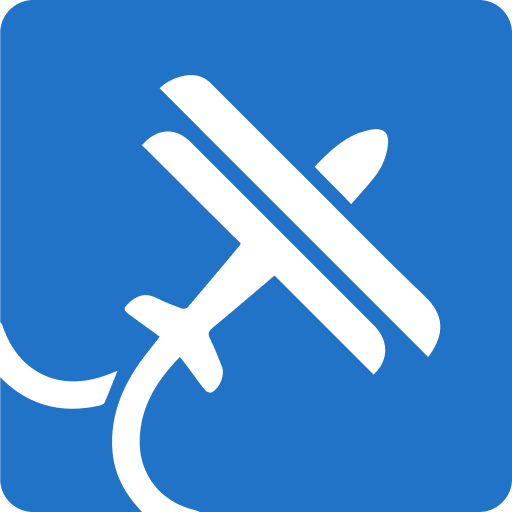
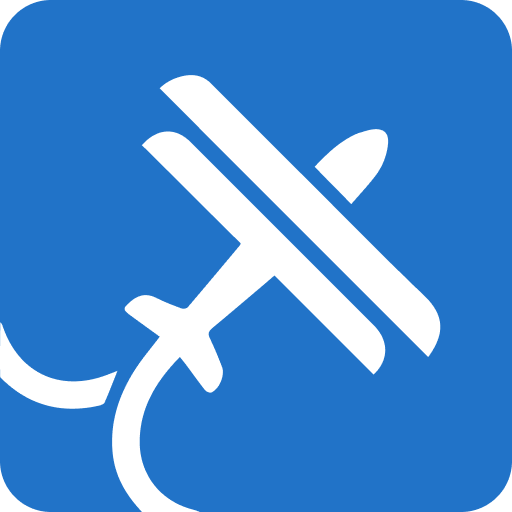
feat(brand): свести 6 копий логотипа к одному мастеру (TRIP-479)
В репозитории жили 6 независимых источников марки и 3 разных синих:
- public/triplanio-logo.svg  341x341, белый rect + синий path «с дыркой», #2267E2
- public/triplanio-logo.png  80x80, углы ~3%, #2267E2
- public/icon-192/512.png    #2173C8
- #tl-logo в LandingSprite   342x341, обратная конструкция, #2173C8
- запечён в og-cover/og-join белой плашкой

Всего 23 точки рендера. Побочный дефект «выбитой» конструкции: самолёт
берёт цвет фона под собой, поэтому на тёмном он чернел.

Теперь один мастер public/triplanio-logo.svg — непрозрачная плитка
#2173C8 + белые path сверху, самодостаточная на любом фоне. Из него же
собраны растры и favicon.ico (3 кадра, альфа сохранена).

- public/: мастер, icon-192/512, новые apple-touch-icon.png и favicon.ico
- public/triplanio-logo.png удалён — потребителей не осталось
- index.html: favicon.ico фолбэком после SVG + apple-touch-icon
  (непрозрачный и нескруглённый намеренно: iOS скругляет сам, альфа даёт
  чёрные углы); Organization.logo в JSON-LD снят с удалённого PNG на
  icon-512.png — Google не принимает SVG в этом поле
- vercel.json: правило Cache-Control сдвинуто на актуальный список файлов
- LandingSprite: символ #tl-logo пересобран из мастера, viewBox 342x341
  → 192x192; у пяти потребителей, задающих viewBox, обновлён (SiteChrome
  x2, LandingPage x3). AuthShell и строка landing.pn.divider viewBox не
  задают и берут его из символа — локали не тронуты, Tolgee не задет
[…]

diff --git a/supabase/functions/render-share-card/assets_b64.ts b/supabase/functions/render-share-card/assets_b64.ts
@@ -15,4 +15,4 @@ export const FONT_B64: string[] = [
 ];
 
 // Логотип Triplanio (public/triplanio-logo.svg) для футера карточки — base64 SVG.
[2 lines of base64/hex data omitted]

diff --git a/src/components/site/LandingSprite.jsx b/src/components/site/LandingSprite.jsx
@@ -51,12 +51,20 @@ export default function LandingSprite() {
         <symbol id="i-ferry" viewBox="0 0 24 24" fill="none" stroke="currentColor" strokeWidth="2" strokeLinecap="round" strokeLinejoin="round"><path d="M3 18.5c1.6 0 1.6 1.2 3.2 1.2s1.6-1.2 3.2-1.2 1.6 1.2 3.2 1.2 1.6-1.2 3.2-1.2 1.6 1.2 3.2 1.2" /><path d="M5 15l1.6-5.2h10.8L19 15" /><path d="M12 9.8V5M9 5h6" /></symbol>
         <symbol id="i-walk" viewBox="0 0 24 24" fill="none" stroke="currentColor" strokeWidth="2" strokeLinecap="round" strokeLinejoin="round"><circle cx="13" cy="4.5" r="1.8" /><path d="M11 21l1.6-5.4L10 13l1-5 3.5 2 2.5 1M10 8l-3 2-1 3M12.6 15.6 16 21" /></symbol>
         <symbol id="i-lock" viewBox="0 0 24 24"><rect x="5" y="10.5" width="14" height="10" rx="2.5" fill="none" stroke="currentColor" strokeWidth="2" /><path fill="none" stroke="currentColor" strokeWidth="2" strokeLinecap="round" d="M8 10.5V8a4 4 0 0 1 8 0v2.5" /></symbol>
-        <symbol id="tl-logo" viewBox="0 0 342 341">
-          <rect x="0.14" width="341" height="341" rx="33" fill="#2173C8" />{/* design-token-exempt: бренд-лого Triplanio (двухтоновая марка, как в SiteChrome) */}
-          <path d="M94.6416 341C83.8772 329.659 76.5128 317.121 75.0413 301.509C73.1449 281.388 79.1121 263.296 89.6892 246.622C94.5557 238.951 100.565 232.004 106.427 224.236C100.18 219.706 93.7372 215.059 87.3228 210.374C81.5862 206.183 81.717 205.395 86.9609 200.869C92.3663 196.203 97.8246 195.183 104.364 198.499C109.684 201.197 115.313 203.318 120.912 205.405C122.074 205.838 124.313 205.516 125.036 204.67C136.721 191.015 148.244 177.22 159.785 163.442C160.083 163.086 160.178 162.56 160.369 162.109C138.373 140.245 116.431 118.437 94.5376 96.6751C104.546 85.2901 116.91 84.6208 126.739 94.4252C167.55 135.132 208.337 175.864 249.061 216.658C259.315 226.93 259.147 240.014 248.868 249.501C227.016 227.621 205.157 205.734 182.905 183.454C179.866 186.065 177.283 188.314 174.669 190.525C163.607 199.879 152.579 209.274 141.434 218.529C139.035 220.521 138.347 222.2 139.803 225.247C142.808 231.535 145.495 237.993 147.971 244.51C150.021 249.907 146.003 259.324 140.751 261.408C139.688 261.83 137.352 260.766 136.489 259.682C132.242 254.345 128.31 248.757 124.232 243.285C122.867 241.454 121.397 239.7 119.839 237.74C104.16 253.787 93.0867 271.57 93.0853 294.35C93.084 316.373 107.094 333.849 128.491 339.366C129.94 339.739 131.539 340.273 133.142 341H94.6416Z" fill="#fff" />
-          <path d="M0.142077 214.673C0.627545 214.991 1.29188 215.72 1.57264 216.574C11.9076 248.025 39.1435 261.295 70.3393 250.034C72.7814 249.152 75.1838 248.16 78.2836 246.956C75.2743 254.472 72.6732 261.356 69.6796 268.065C69.1743 269.198 67.0518 269.92 65.5489 270.249C40.5611 275.722 18.4789 269.885 0.141602 251.223C-0.177652 239.098 0.142077 227.162 0.142077 214.673Z" fill="#fff" />
-          <path d="M206.222 121.124C231.732 146.52 256.606 172.071 282.401 196.654C296.793 210.37 296.231 222.785 285.311 237.797C225.767 178.254 166.141 118.63 106.337 58.8275C110.727 54.529 116.932 51.2758 124.167 50.2368C130.621 49.31 136.166 51.0851 140.943 55.8946C162.537 77.6363 184.282 99.2281 206.222 121.124Z" fill="#fff" />
-          <path d="M238.721 88.6644C242.438 87.6459 245.775 86.3565 249.194 86.083C255.962 85.5416 259.176 88.965 258.541 95.7017C257.773 103.846 254.697 111.233 249.737 117.63C244.971 123.776 239.635 129.48 234.054 135.953C229.699 131.516 225.784 127.529 221.869 123.541C217.918 119.516 213.967 115.49 209.617 111.058C218.073 102.23 226.699 93.6271 238.721 88.6644Z" fill="#fff" />
+        {/* Бренд-марка (TRIP-479) — единственная копия геометрии логотипа в коде.
+            Мастер = public/triplanio-logo.svg (он же favicon и источник растров);
+            здесь его rect+path перенесены как есть, причёсано только обрамление
+            тегов под стиль остального спрайта. Значения (координаты, rx, `white`
+            вместо `#fff`) НЕ править руками — они едут вслед за мастером.
+            viewBox символа продублирован у тех потребителей, кто его указывает
+            (SiteChrome ×2, LandingPage ×3) — менять вместе; AuthShell и строка
+            landing.pn.divider viewBox не задают и берут его отсюда. */}
+        <symbol id="tl-logo" viewBox="0 0 192 192">
+          <rect x="0.0800781" width="191.92" height="192" rx="26" fill="#2173C8" />{/* design-token-exempt: бренд-лого Triplanio, синий плитки задан мастером public/triplanio-logo.svg */}
+          <path d="M53.2658 191.999C47.2075 185.614 43.0626 178.555 42.2345 169.764C41.1672 158.435 44.5256 148.248 50.4785 138.86C53.2175 134.541 56.5994 130.629 59.8989 126.255C56.3831 123.705 52.7568 121.088 49.1467 118.45C45.918 116.091 45.9916 115.647 48.943 113.099C51.9852 110.472 55.0573 109.897 58.7377 111.764C61.7318 113.283 64.8998 114.477 68.0512 115.653C68.705 115.897 69.9652 115.715 70.3725 115.239C76.9489 107.55 83.4339 99.7834 89.9295 92.0256C90.0973 91.8252 90.1505 91.5286 90.2581 91.2747C77.8783 78.9646 65.5295 66.6853 53.2073 54.4324C58.84 48.022 65.7986 47.6452 71.3307 53.1655C94.2998 76.0857 117.255 99.0198 140.176 121.989C145.947 127.772 145.852 135.139 140.067 140.481C127.768 128.161 115.466 115.838 102.942 103.293C101.232 104.763 99.7778 106.029 98.3062 107.274C92.0806 112.541 85.8738 117.831 79.6013 123.042C78.2509 124.164 77.8641 125.109 78.6835 126.825C80.3743 130.365 81.8867 134.001 83.2803 137.671C84.4344 140.71 82.1727 146.012 79.2168 147.185C78.6184 147.423 77.3038 146.824 76.8183 146.213C74.4281 143.208 72.2151 140.062 69.9197 136.981C69.1515 135.95 68.3244 134.963 67.4475 133.859C58.6227 142.894 52.3907 152.907 52.3899 165.733C52.3892 178.133 60.2744 187.973 72.317 191.079C73.132 191.29 74.0324 191.59 74.9342 191.999C67.899 191.999 60.6703 191.999 53.2658 191.999Z" fill="white" />
+          <path d="M0.0799632 120.871C0.353192 121.05 0.727088 121.461 0.885108 121.942C6.70177 139.65 22.0306 147.122 39.5881 140.781C40.9625 140.285 42.3146 139.726 44.0592 139.048C42.3655 143.28 40.9016 147.156 39.2168 150.934C38.9324 151.571 37.7378 151.978 36.8919 152.163C22.8284 155.245 10.4002 151.958 0.0796956 141.451C-0.0999856 134.624 0.0799632 127.903 0.0799632 120.871Z" fill="white" />
+          <path d="M116.065 68.1987C130.422 82.4981 144.421 96.8842 158.939 110.726C167.039 118.449 166.723 125.439 160.577 133.892C127.065 100.366 93.5061 66.7943 59.8477 33.1226C62.3184 30.7024 65.8109 28.8707 69.8827 28.2857C73.515 27.7638 76.6361 28.7633 79.3245 31.4713C91.4779 43.713 103.716 55.8702 116.065 68.1987Z" fill="white" />
+          <path d="M134.356 49.9223C136.448 49.3488 138.326 48.6228 140.25 48.4688C144.059 48.164 145.868 50.0916 145.511 53.8847C145.079 58.4704 143.347 62.6296 140.556 66.2313C137.874 69.6918 134.87 72.9032 131.729 76.548C129.278 74.0501 127.074 71.8048 124.871 69.5594C122.647 67.293 120.424 65.0265 117.976 62.5311C122.735 57.5603 127.59 52.7165 134.356 49.9223Z" fill="white" />
         </symbol>
         {/* Demo-trip section icons (TRIP-462) — extend the zone sprite so the
             demo page reuses the shared header's sprite, no per-page plumbing. */}

diff --git a/src/pages/Landing/LandingPage.jsx b/src/pages/Landing/LandingPage.jsx
@@ -334,7 +334,7 @@ function Pain() {
                 <div className="aw-browserbar" aria-hidden="true"><span className="wdots"><i /><i /><i /></span><span className="aw-url"><svg width="12" height="12"><use href="#i-lock" /></svg>{SHARE_URL}</span>{/* i18n-ignore: demo URL */}</div>
                 <div className="aw-phonebar" aria-hidden="true"><i /></div>
                 <div className="aw-head">
-                  <svg className="logo" viewBox="0 0 342 341" aria-hidden="true"><use href="#tl-logo" /></svg>
+                  <svg className="logo" viewBox="0 0 192 192" aria-hidden="true"><use href="#tl-logo" /></svg>
                   <div><b>{t('landing.aw.title')}</b><small>{t('landing.aw.dates')}</small></div>
                   <div className="avs">
                     <span style={{ background: 'var(--ice)', color: 'var(--brand-deep)' }}>M</span>{/* inline-style-exempt: цвет аватара мокапа — как в макете (TRIP-460) */}
@@ -662,7 +662,7 @@ function Share() {
             </div>
             <div className="browser-body">
               <div className="bb-head">
-                <svg className="logo" viewBox="0 0 342 341" aria-hidden="true"><use href="#tl-logo" /></svg>
+                <svg className="logo" viewBox="0 0 192 192" aria-hidden="true"><use href="#tl-logo" /></svg>
                 <div><b>{t('landing.sh.bT')}</b><small>{t('landing.sh.bS')}</small></div>
                 <span className="viewer">{t('landing.sh.viewer')}</span>
               </div>
@@ -755,7 +755,7 @@ function Collab() {
         <div className="rv-r">
           <div className="feed-card">
             <div className="feed-head">
-              <svg className="logo" width="30" height="30" viewBox="0 0 342 341" aria-hidden="true"><use href="#tl-logo" /></svg>
+              <svg className="logo" width="30" height="30" viewBox="0 0 192 192" aria-hidden="true"><use href="#tl-logo" /></svg>
               <div><b>{t('landing.col.tripT')}</b><small>{t('landing.col.tripS')}</small></div>
               <div className="avs">
                 <span className="av" aria-hidden="true" style={{ background: '#2173C8' }}>A</span>{/* inline-style-exempt: цвет аватара мокапа — как в макете (TRIP-460) */}

diff --git a/index.html b/index.html
@@ -20,7 +20,14 @@
         security_storage: 'granted'
       });
     </script>
+    <!-- Favicon: SVG первым — современные браузеры берут его и игнорируют
+         остальное. .ico оставлен фолбэком для старых и для ботов/читалок,
+         которые дёргают /favicon.ico по конвенции, не читая разметку.
+         apple-touch-icon непрозрачный и НЕскруглённый намеренно: iOS скругляет
+         сам, а альфа в нём даёт чёрные углы на домашнем экране (TRIP-479). -->
     <link rel="icon" type="image/svg+xml" href="/triplanio-logo.svg" />
+    <link rel="icon" href="/favicon.ico" sizes="16x16 32x32 48x48" />
+    <link rel="apple-touch-icon" href="/apple-touch-icon.png" />
     <meta name="viewport" content="width=device-width, initial-scale=1.0, viewport-fit=cover, interactive-widget=resizes-content" />
     <meta name="google-site-verification" content="Jtn6m7Y4ILNIefFuOmuzt63AyuQohMoUmxVg8kJyiow" />
     <meta name="impact-site-verification" value="75cd6594-dce5-4983-9116-8ad4086f84a6" />
@@ -65,7 +72,10 @@
     <meta name="twitter:image" content="https://www.triplanio.com/og-cover.jpg" />
 
     <!-- Site-wide structured data. Page-scoped types are injected per route from
-         React; see src/components/site/jsonLd.js. -->
+         React; see src/components/site/jsonLd.js.
+         Organization.logo reuses the PWA icon (/icon-512.png, the same file
+         manifest.json lists) — one raster to regenerate when the mark changes;
+         the SVG master of the mark is public/triplanio-logo.svg (TRIP-479). -->
     <script type="application/ld+json">
       {
         "@context": "https://schema.org",
@@ -75,7 +85,7 @@
             "@id": "https://www.triplanio.com/#organization",
             "name": "Triplanio",
             "url": "https://www.triplanio.com/",
-            "logo": "https://www.triplanio.com/triplanio-logo.png",
+            "logo": "https://www.triplanio.com/icon-512.png",
             "email": "info@triplanio.com"
           },
           {

diff --git a/src/components/site/SiteChrome.jsx b/src/components/site/SiteChrome.jsx
@@ -211,7 +211,7 @@ export function SiteHeader({ lang, setLang, variant = 'full', themed = false, na
       <header className={`site-header ${scrolled ? 'scrolled' : ''} on-${theme}`} id="siteHeader">
         <div className="wrap">
           <a href={brandHref} className="brand" aria-label={t('nav.aria_home')} onClick={onBrand}>
-            <svg className="logo" viewBox="0 0 342 341" aria-hidden="true"><use href="#tl-logo"/></svg>
+            <svg className="logo" viewBox="0 0 192 192" aria-hidden="true"><use href="#tl-logo"/></svg>
             Triplanio
           </a>
           {showNav && (
@@ -278,7 +278,7 @@ export function SiteFooter({ lang, setLang, brandHref = '#top' }) {
         <div className="footer-min">
           <div className="footer-brandcol">
             <a href={brandHref} className="brand" onClick={onBrand}>
-              <svg className="logo" viewBox="0 0 342 341" aria-hidden="true"><use href="#tl-logo"/></svg>
+              <svg className="logo" viewBox="0 0 192 192" aria-hidden="true"><use href="#tl-logo"/></svg>
               Triplanio
             </a>
             <p className="footer-tag">{t('landing.ft.tag')}</p>
